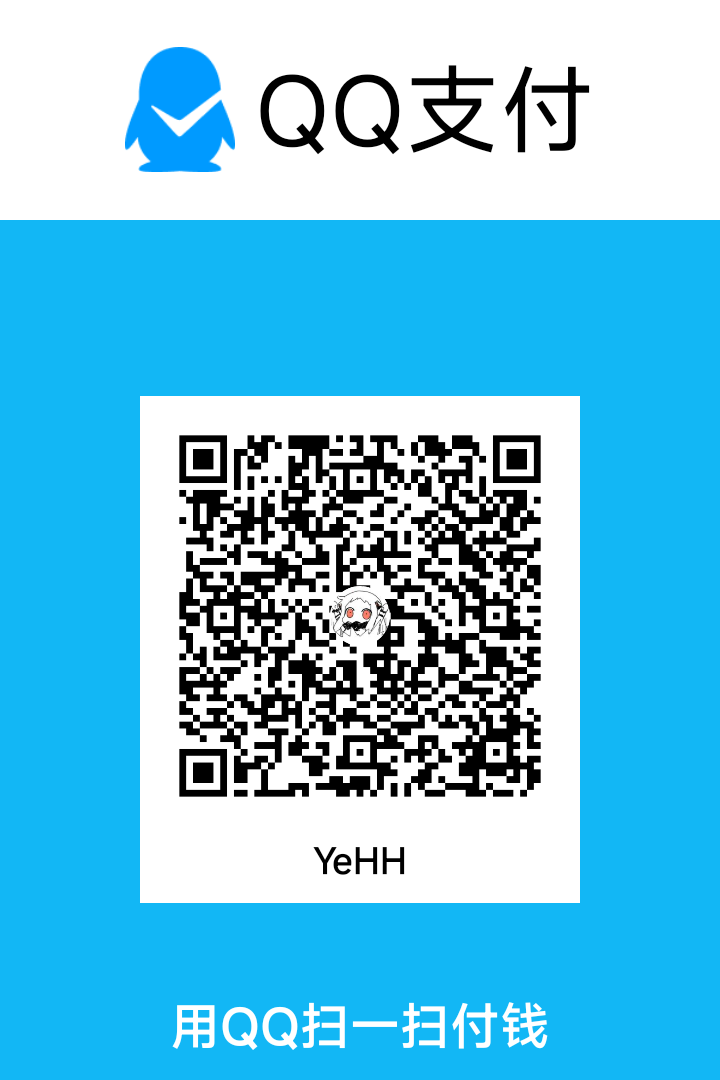
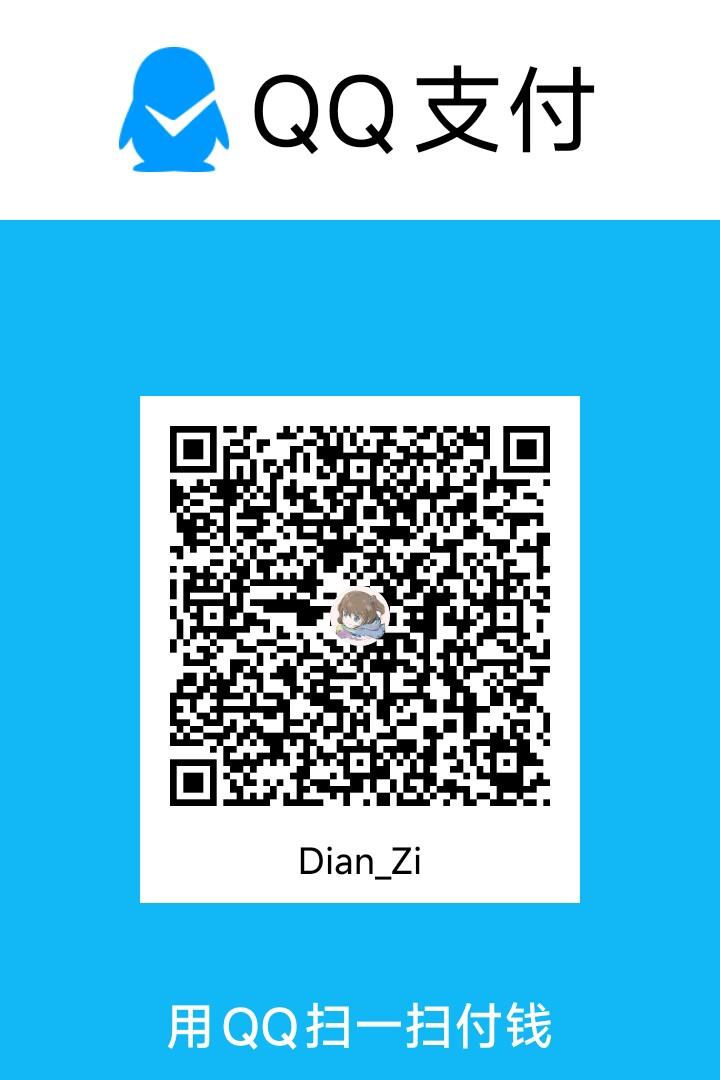
fucking bytedance CSS and JavaScript is fail. so i must change my webpage homepage-main on a large-scale. i fork zhicheng's open-source code.the details:recover style, change my head picture, add a new blog,change qq be paid from yhh account to dianzi account.

diff --git a/homepage-main/index.html b/homepage-main/index.html
@@ -11,29 +11,24 @@
 	<meta name="author" content="电子Electron">
 
 	<title>电子Electron's Home</title>
-	<link id="favicon" rel="icon" href="https://electrondz75.top/linkImage/Picture/headImage1v1.png">
+	<link id="favicon" rel="icon" href="https://electrondz75.top/linkImage/Head/Head.jpg">
 
 	<link rel="stylesheet" href="./css/home.css">
 	<link
 		href="https://font.sec.miui.com/font/css?family=MiSans:400,500,600,700:Chinese_Simplify,Latin,Chinese_Traditional&amp;display=swap"
 		rel="stylesheet">
-	<link href="https://lf9-cdn-tos.bytecdntp.com/cdn/expire-1-M/bootstrap/5.1.3/css/bootstrap-grid.min.css"
-		type="text/css" rel="stylesheet" />
+	<link href="https://cdnjs.cloudflare.com/ajax/libs/bootstrap/5.3.1/css/bootstrap-grid.rtl.min.css" type="text/css"
+		rel="stylesheet" />
 	<link href="https://cdn.bootcss.com/aplayer/1.10.1/APlayer.min.css" rel="stylesheet">
 	<script src="https://cdn.bootcss.com/aplayer/1.10.1/APlayer.min.js"></script>
 	<script src="https://cdn.jsdelivr.net/npm/meting@2.0.1/dist/Meting.min.js"></script>
-	<script>
-		function beginWarn() {
-			alert("这个网页由于CSS的损坏已经废了(This webpage is out of service due to CSS damage!!!)");
-		}
-	</script>
+	<script src="https://code.jquery.com/jquery-3.6.0.min.js"></script>
+	<script>function print() {
+		alert("QQ Number: 316951535")
+	}</script>
 </head>
 
 <body>
-
-	<script>
-		beginWarn();
-	</script>
 
 	<meting-js
 	server="tencent"
@@ -53,7 +48,7 @@
 			<div class="row">
 				<div class="col-md-3">
 					<div class="box-left">
-						<img src="/linkImage/Picture/headImage1v1.png" alt="Avatar"
+						<img src="/linkImage/Head/OutWebHead.jpeg" alt="Avatar"
 							title="不可以rua！">
 						<h2>电子<br>Electron</h2>
 					</div>
@@ -84,7 +79,7 @@
 								<a href="https://space.bilibili.com/553343171" target="_blank">bilibili</a> |
 								<a href="https://github.com/eUsEr114514" target="_blank">Github</a> |
 								<a href="https://www.douyin.com/user/MS4wLjABAAAASMvQCRAzLp1_daonfImRs1oVREuPWd6s2yqTCIvog1uGW9hr69UmAz9WRnvmcWsX" target="_blank">抖音</a> |
-								<a href="https://twitter.com/ElectronDZ75" target="_blank">Twitter</a> |
+								<a href="https://x.com/ElectronDZ75" target="_blank">Twitter</a> |
 								<a href="https://www.youtube.com/channel/UCdNLWyFidLNexbgjuwbiwWg" target="_blank">YouTube</a> |
 								<a href="https://www.facebook.com/profile.php?id=61559128858279" target="_blank">FaceBook</a> |
 								<a href="https://t.me/electrondz75" target="_blank">Telegram</a> |
@@ -96,11 +91,11 @@
 						</div>
 
 						<div class="box-content" id="blogの">
-<!--							<p>这些都是'<a href="https://blog.zhicheng233.top" target="_blank">志成zhi_cheng</a>'的博客，不是我的博客</p>-->
 							<div id="blogs" style="display: inline-grid;">
 								<div class="box-item"><a href="https://blog.electrondz75.top/" target="_blank">博客总网址</a></div>
 								<div class="box-item"><a href="https://blog.electrondz75.top/post/%E7%94%A8Github%E5%85%8D%E8%B4%B9%E6%90%AD%E5%BB%BA%E4%B8%80%E4%B8%AA%E8%87%AA%E5%B7%B1%E7%9A%84%E7%BD%91%E7%AB%99" target="_blank">用Giuhub免费搭建一个自己的网站</a></div>
 								<div class="box-item"><a href="https://blog.electrondz75.top/post/%E5%8D%87%E7%BA%A7%E4%B8%93%E4%B8%9A%E7%89%88%E5%B9%B6%E6%BF%80%E6%B4%BBWindows" target="_blank">升级专业版并激活Windows</a></div>
+								<div class="box-item"><a href="https://blog.electrondz75.top/post/%E5%A6%82%E4%BD%95%E7%94%A8CloudFlare%E6%90%AD%E5%BB%BA%E4%BB%A3%E7%90%86%E6%9C%8D%E5%8A%A1%E5%99%A8" target="_blank">如何用CLoudFlare搭建代理服务器</a></div>
 
 								<!-- <p>抱歉,该Hexo主题暂不支持RSS，请访问：<a href="https://blog.zhicheng233.top" target="_blank">https://blog.zhicheng233.top</a></p> -->
 							</div>
@@ -130,18 +125,16 @@
 		</div>
 	</div>
 
-	<script src="https://lf9-cdn-tos.bytecdntp.com/cdn/expire-1-M/jquery/3.6.0/jquery.min.js"
+	<script src="https://unpkg.com/vue@3.2.31/dist/vue.global.prod.js" type="application/javascript"></script>
+	<script src="https://cdnjs.cloudflare.com/ajax/libs/typed.js/2.0.12/typed.min.js"
 		type="application/javascript"></script>
-	<script src="https://lf9-cdn-tos.bytecdntp.com/cdn/expire-1-M/bootstrap/5.1.3/js/bootstrap.min.js"
-		type="application/javascript"></script>
-	<script src="https://lf3-cdn-tos.bytecdntp.com/cdn/expire-1-M/typed.js/2.0.12/typed.min.js"
+	<script src="https://cdnjs.cloudflare.com/ajax/libs/bootstrap/5.1.3/js/bootstrap.min.js"
 		type="application/javascript"></script>
 	<script>
 		$("#blogの").hide();
 		$("#projectsの").hide();
 	</script>
 	<script src="./js/home.js" type="application/javascript"></script>
-
 	
 </body>
 </html>

diff --git a/homepage-main/Donate/index.html b/homepage-main/Donate/index.html
@@ -81,13 +81,12 @@
 <body inmaintabuse="1">
 	<div class="container">
 		<h1>捐赠支持</h1>
-		<h2></h2>
 		<div class="images">
 			<img src="dzqq2.png" alt="QQ收款二维码">
 			<!-- 这些是志成的 -->
-<!--			<img src="./QQ.png" alt="QQ收款二维码">-->
-<!--			<img src="./WX.png" alt="微信收款二维码">-->
-<!--			<img src="./AL.jpg" alt="支付宝收款二维码">-->
+<!--			<img src="zhicheng/QQ.png" alt="QQ收款二维码">-->
+<!--			<img src="zhicheng/WX.png" alt="微信收款二维码">-->
+<!--			<img src="zhicheng/AL.jpg" alt="支付宝收款二维码">-->
 		</div>
 		<p class="address">理科生的经费支持</p>
 	</div>

diff --git a/homepage-main/js/home.js b/homepage-main/js/home.js
@@ -5,7 +5,7 @@ var typed = new Typed('#hi', {
         "from Guangdong, China.",
         "a student.",
         "good at loaf on the job.",
-        "a cliper.",
+        "a editor.",
         "a bilibili up.",
         "everything",
         "......?"
@@ -59,8 +59,4 @@ function goProjects() {
     $("#projectsの").show();
     $("#blogの").hide();
     $("#homeの").hide();
-}
-
-function print() {
-    alert("QQ：316951535")
 }

diff --git a/homepage-main/css/home.css b/homepage-main/css/home.css
@@ -140,7 +140,7 @@ a:hover {
         background: linear-gradient(45deg, #ffffff99, #ffffffcc), url("https://api.imlazy.ink/img-phone") no-repeat;
         background-size: cover;
     }
-    /* 223.73.181.147 */
+
     .main-box {
         width: 80%;
     }

diff --git a/homepage-main/README.MD b/homepage-main/README.MD
@@ -1,9 +1,5 @@
-# 改编过的，下面是原项目的markdown，加了by zhicheng233，其它都没变
-
 # 主页 By lazy
 Link:https://github.com/LazyCreeper/LightPage
-## 主页 By zhicheng233
-link:https://github.com/zhicheng233/homepage
 
 # LightPage
 一个简单的个人主页。国庆在宿舍守寡无聊做的~
